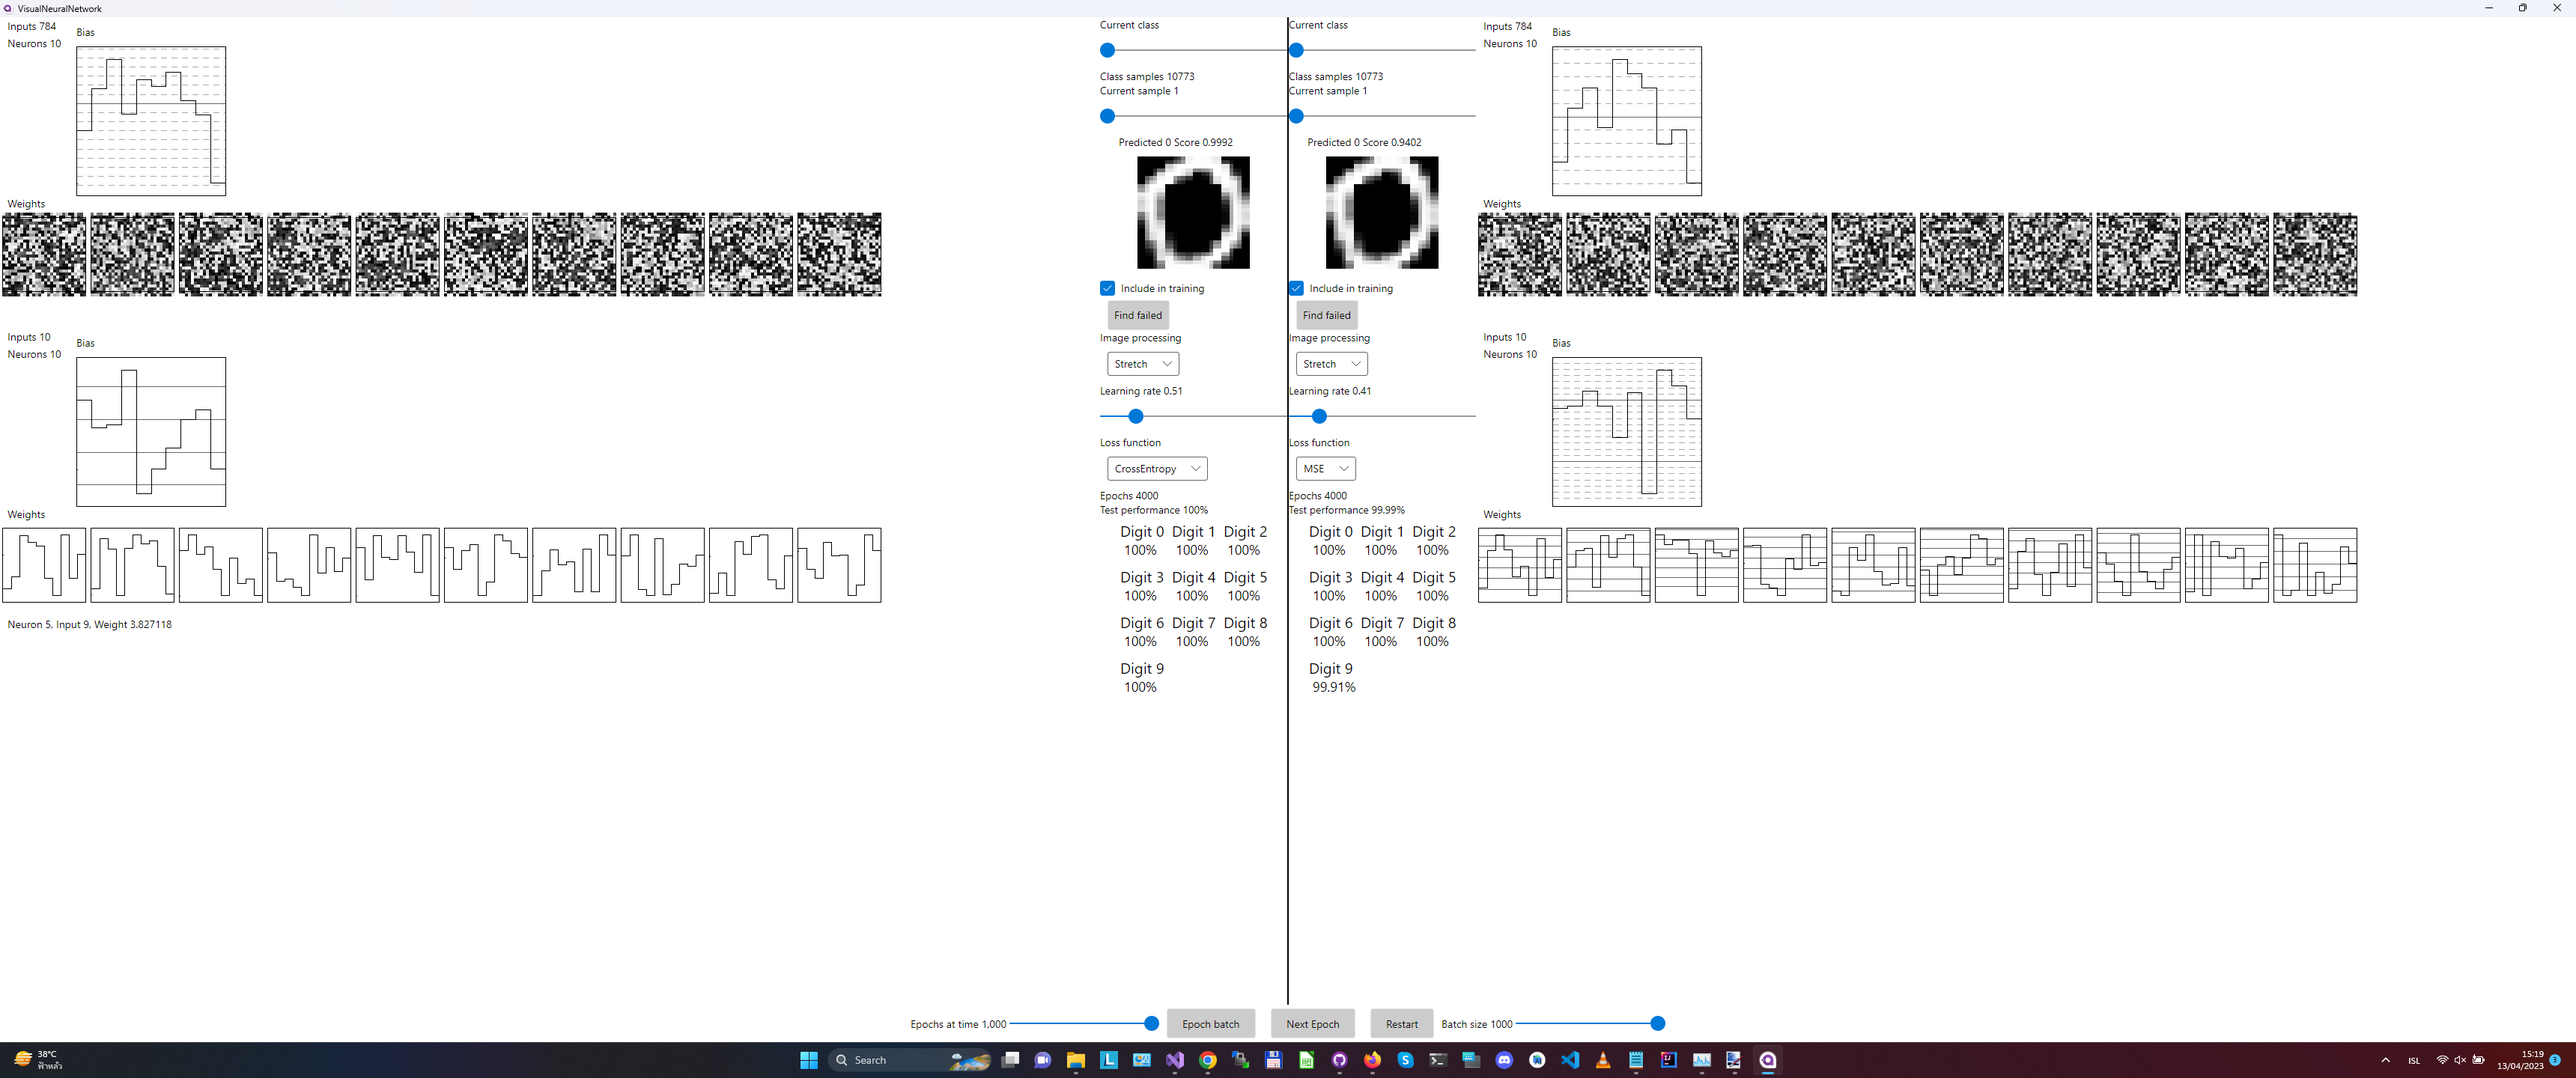
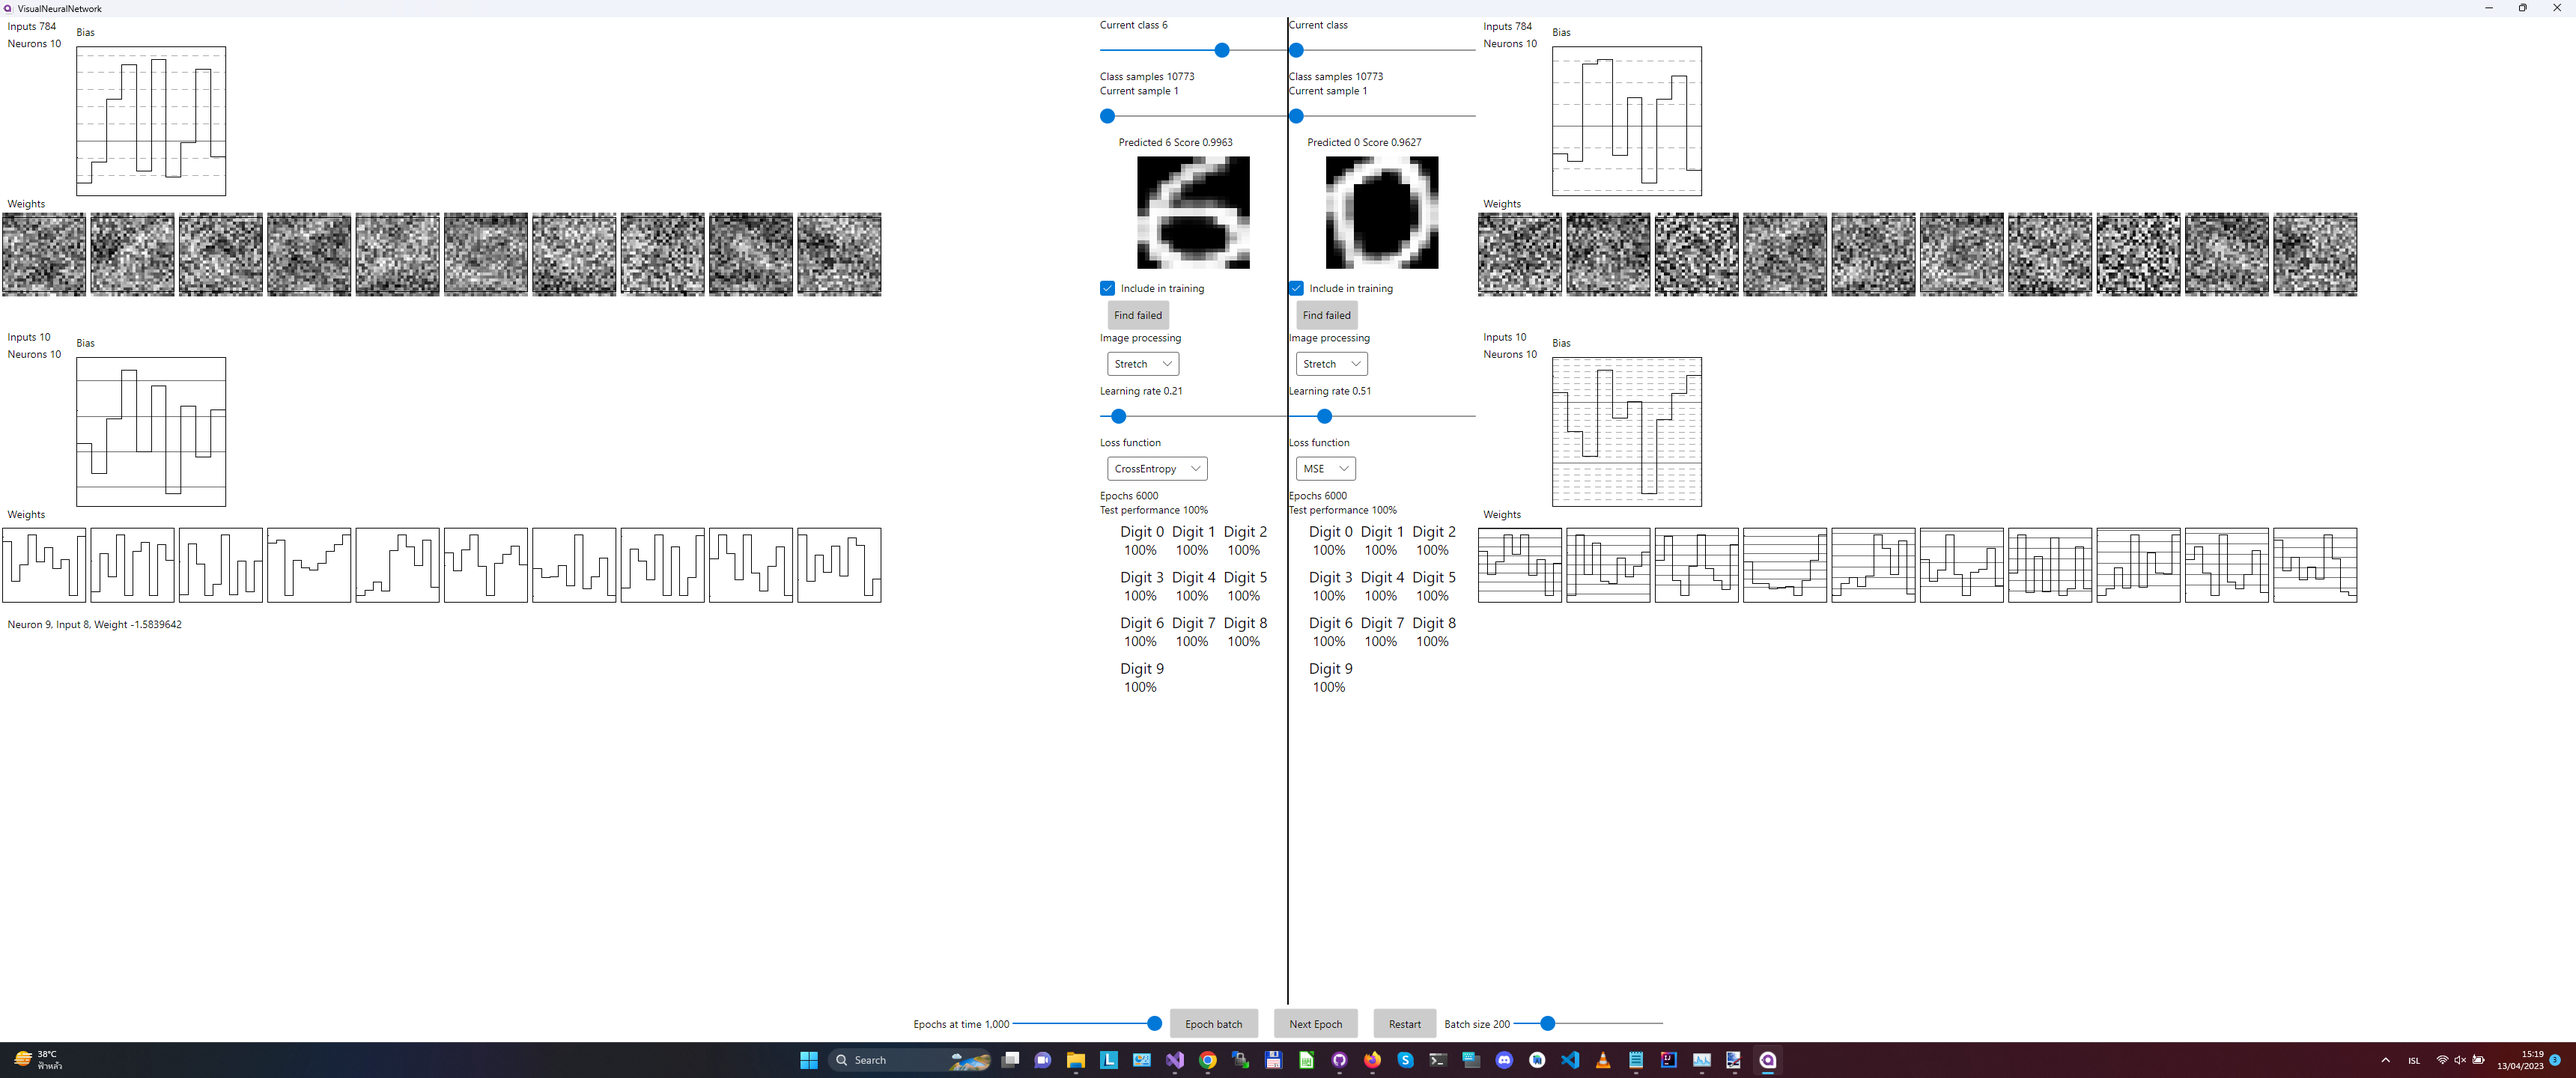
fixes in Gridplot for double

diff --git a/VisualNeuralNetwork/Plot/GridPlot.axaml.cs b/VisualNeuralNetwork/Plot/GridPlot.axaml.cs
@@ -112,7 +112,7 @@ namespace VisualNeuralNetwork
 
             byte[] bytes = range == 0
                 ? new byte[values.Count]
-                : values.Select(d => (byte)(d / range * 255)).ToArray();
+                : values.Select(d => (byte)((d-min) / range * 255)).ToArray();
                  
             WriteableBitmap? wbitmap = CreateBitmap(bytes, width, height);
 
